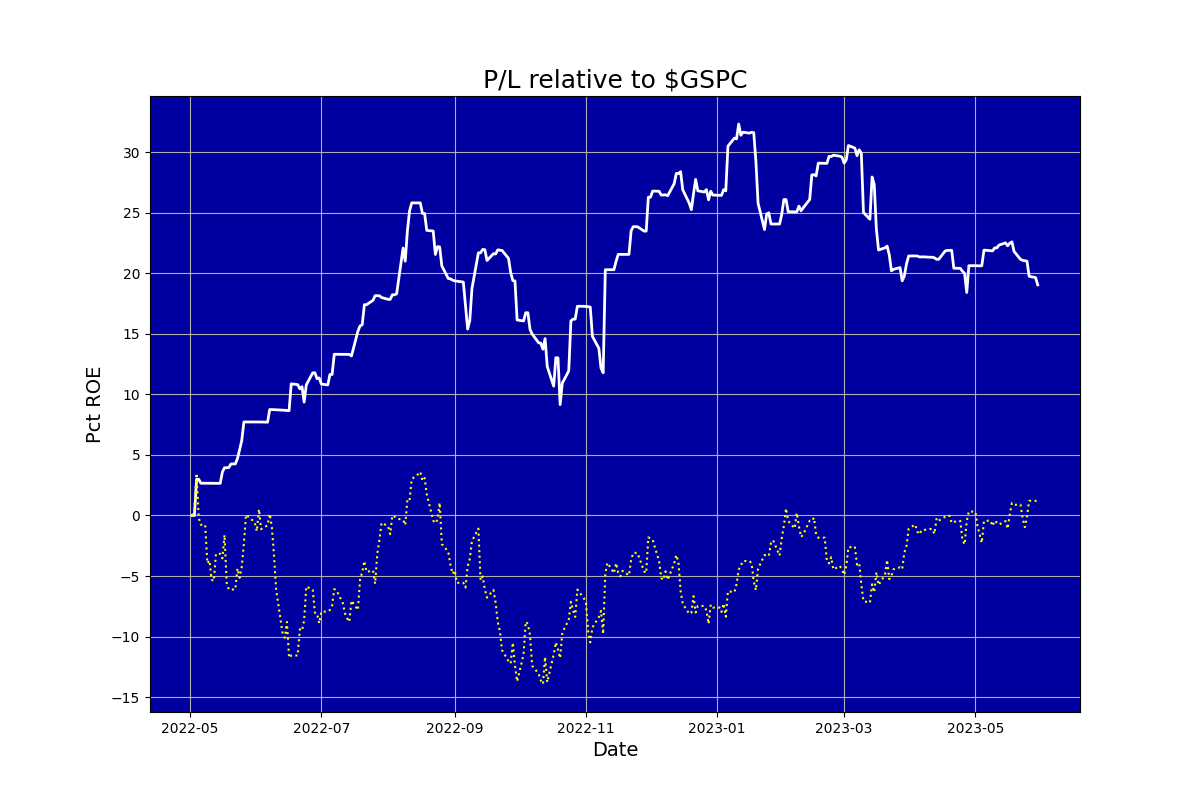
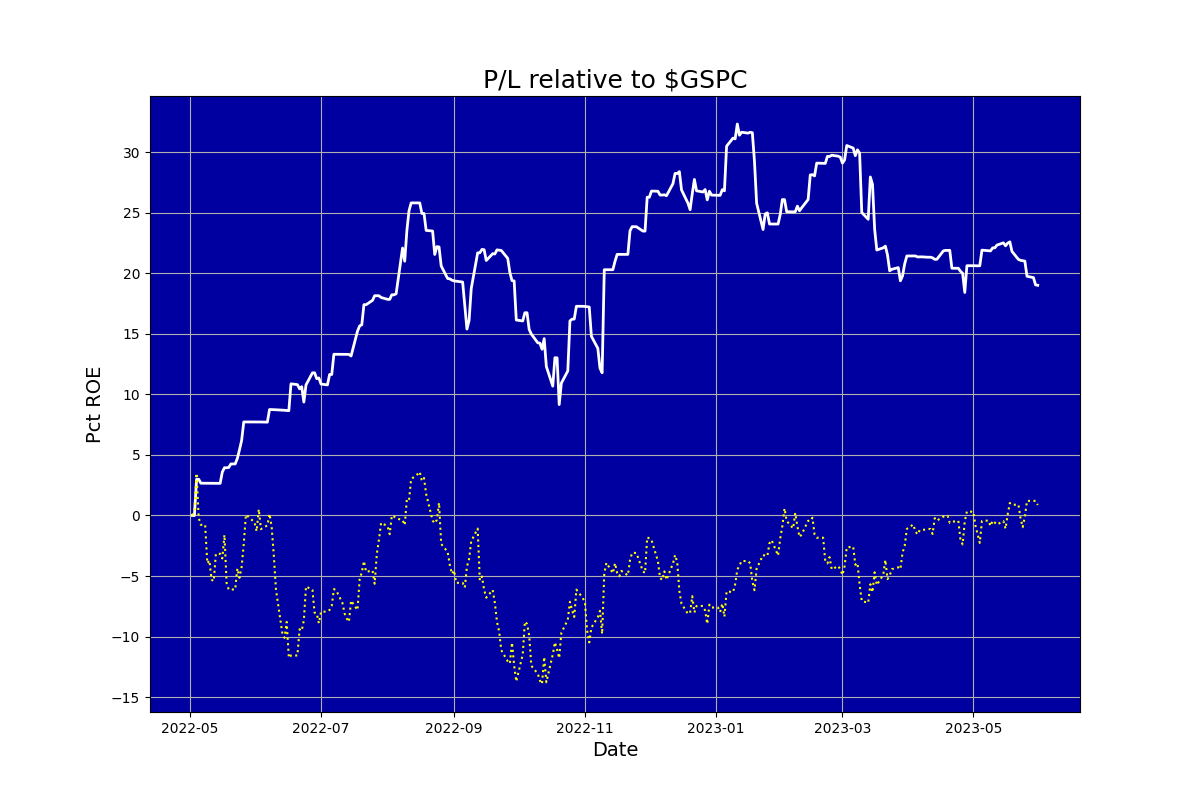
Updated

diff --git a/ig_report.html b/ig_report.html
@@ -1,1 +1,1 @@
-<html><body><center><h1>Auriel (never knowingly overbought)</h1></center><table cols=2><tr><td><img src=ig_pl.png></td><td><table cols=2><tr><td colspan=2><b><br>Snapshot</b></td></tr><tr><td>Last updated:&nbsp;&nbsp;&nbsp;</td><td>2023-05-30 15:57</td></tr><tr><td>Margin:&nbsp;&nbsp;&nbsp;</td><td>0.44</td></tr><tr><td>Cushion:&nbsp;&nbsp;&nbsp;</td><td>-39165.11</td></tr><tr><td>Last closed trade:&nbsp;&nbsp;&nbsp;</td><td>2023-05-30</td></tr><tr><td colspan=2><b><br>Positions</b></td></tr><tr><td>Mean days to new high:&nbsp;&nbsp;&nbsp;</td><td>12.89</td></tr><tr><td colspan=2><b><br>Trades</b></td></tr><tr><td>Traded days:&nbsp;&nbsp;&nbsp;</td><td>284</td></tr><tr><td>Profitable days pct:&nbsp;&nbsp;&nbsp;</td><td>37.68</td></tr><tr><td>Days beat S&P pct:&nbsp;&nbsp;&nbsp;</td><td>54.24</td></tr><tr><td>Profitable months pct:&nbsp;&nbsp;&nbsp;</td><td>61.54</td></tr><tr><td colspan=2><b><br>Performance</b></td></tr><tr><td>Pct median monthly ROE:&nbsp;&nbsp;&nbsp;</td><td>1.13</td></tr><tr><td>Pct annualised ROE:&nbsp;&nbsp;&nbsp;</td><td>16.76</td></tr><tr><td colspan=2><b><br>Risk</b></td></tr><tr><td>Volatility pct:&nbsp;&nbsp;&nbsp;</td><td>18.75</td></tr><tr><td>Benchmark volatility pct:&nbsp;&nbsp;&nbsp;</td><td>21.82</td></tr><tr><td>Sharpe ratio (RFR 5.0%):&nbsp;&nbsp;&nbsp;</td><td>0.72</td></tr><tr><td>Sortino ratio (RFR 5.0%):&nbsp;&nbsp;&nbsp;</td><td>1.00</td></tr><tr><td>Calmar ratio:&nbsp;&nbsp;&nbsp;</td><td>1.01</td></tr><tr><td>Worst drawdown pct:&nbsp;&nbsp;&nbsp;</td><td>-0.17</td></tr><tr><td>Recovery days from worst drawdown:&nbsp;&nbsp;&nbsp;</td><td>29.00</td></tr><tr><td>Beat benchmark +ve periods pct:&nbsp;&nbsp;&nbsp;</td><td>55.68</td></tr><tr><td>Beat benchmark -ve periods pct:&nbsp;&nbsp;&nbsp;</td><td>88.08</td></tr><tr><td>Correlation with benchmark:&nbsp;&nbsp;&nbsp;</td><td>0.35</td></tr></table></td></tr></table></body></html>
+<html><body><center><h1>Auriel (never knowingly overbought)</h1></center><table cols=2><tr><td><img src=ig_pl.png></td><td><table cols=2><tr><td colspan=2><b><br>Snapshot</b></td></tr><tr><td>Last updated:&nbsp;&nbsp;&nbsp;</td><td>2023-05-31 15:56</td></tr><tr><td>Margin:&nbsp;&nbsp;&nbsp;</td><td>0.44</td></tr><tr><td>Cushion:&nbsp;&nbsp;&nbsp;</td><td>-38829.90</td></tr><tr><td>Last closed trade:&nbsp;&nbsp;&nbsp;</td><td>2023-05-31</td></tr><tr><td colspan=2><b><br>Positions</b></td></tr><tr><td>Mean days to new high:&nbsp;&nbsp;&nbsp;</td><td>12.92</td></tr><tr><td colspan=2><b><br>Trades</b></td></tr><tr><td>Traded days:&nbsp;&nbsp;&nbsp;</td><td>285</td></tr><tr><td>Profitable days pct:&nbsp;&nbsp;&nbsp;</td><td>37.54</td></tr><tr><td>Days beat S&P pct:&nbsp;&nbsp;&nbsp;</td><td>54.78</td></tr><tr><td>Profitable months pct:&nbsp;&nbsp;&nbsp;</td><td>61.54</td></tr><tr><td colspan=2><b><br>Performance</b></td></tr><tr><td>Pct median monthly ROE:&nbsp;&nbsp;&nbsp;</td><td>1.13</td></tr><tr><td>Pct annualised ROE:&nbsp;&nbsp;&nbsp;</td><td>16.68</td></tr><tr><td colspan=2><b><br>Risk</b></td></tr><tr><td>Volatility pct:&nbsp;&nbsp;&nbsp;</td><td>18.72</td></tr><tr><td>Benchmark volatility pct:&nbsp;&nbsp;&nbsp;</td><td>21.76</td></tr><tr><td>Sharpe ratio (RFR 5.0%):&nbsp;&nbsp;&nbsp;</td><td>0.71</td></tr><tr><td>Sortino ratio (RFR 5.0%):&nbsp;&nbsp;&nbsp;</td><td>0.99</td></tr><tr><td>Calmar ratio:&nbsp;&nbsp;&nbsp;</td><td>1.00</td></tr><tr><td>Worst drawdown pct:&nbsp;&nbsp;&nbsp;</td><td>-0.17</td></tr><tr><td>Recovery days from worst drawdown:&nbsp;&nbsp;&nbsp;</td><td>29.00</td></tr><tr><td>Beat benchmark +ve periods pct:&nbsp;&nbsp;&nbsp;</td><td>55.22</td></tr><tr><td>Beat benchmark -ve periods pct:&nbsp;&nbsp;&nbsp;</td><td>88.00</td></tr><tr><td>Correlation with benchmark:&nbsp;&nbsp;&nbsp;</td><td>0.36</td></tr></table></td></tr></table></body></html>
